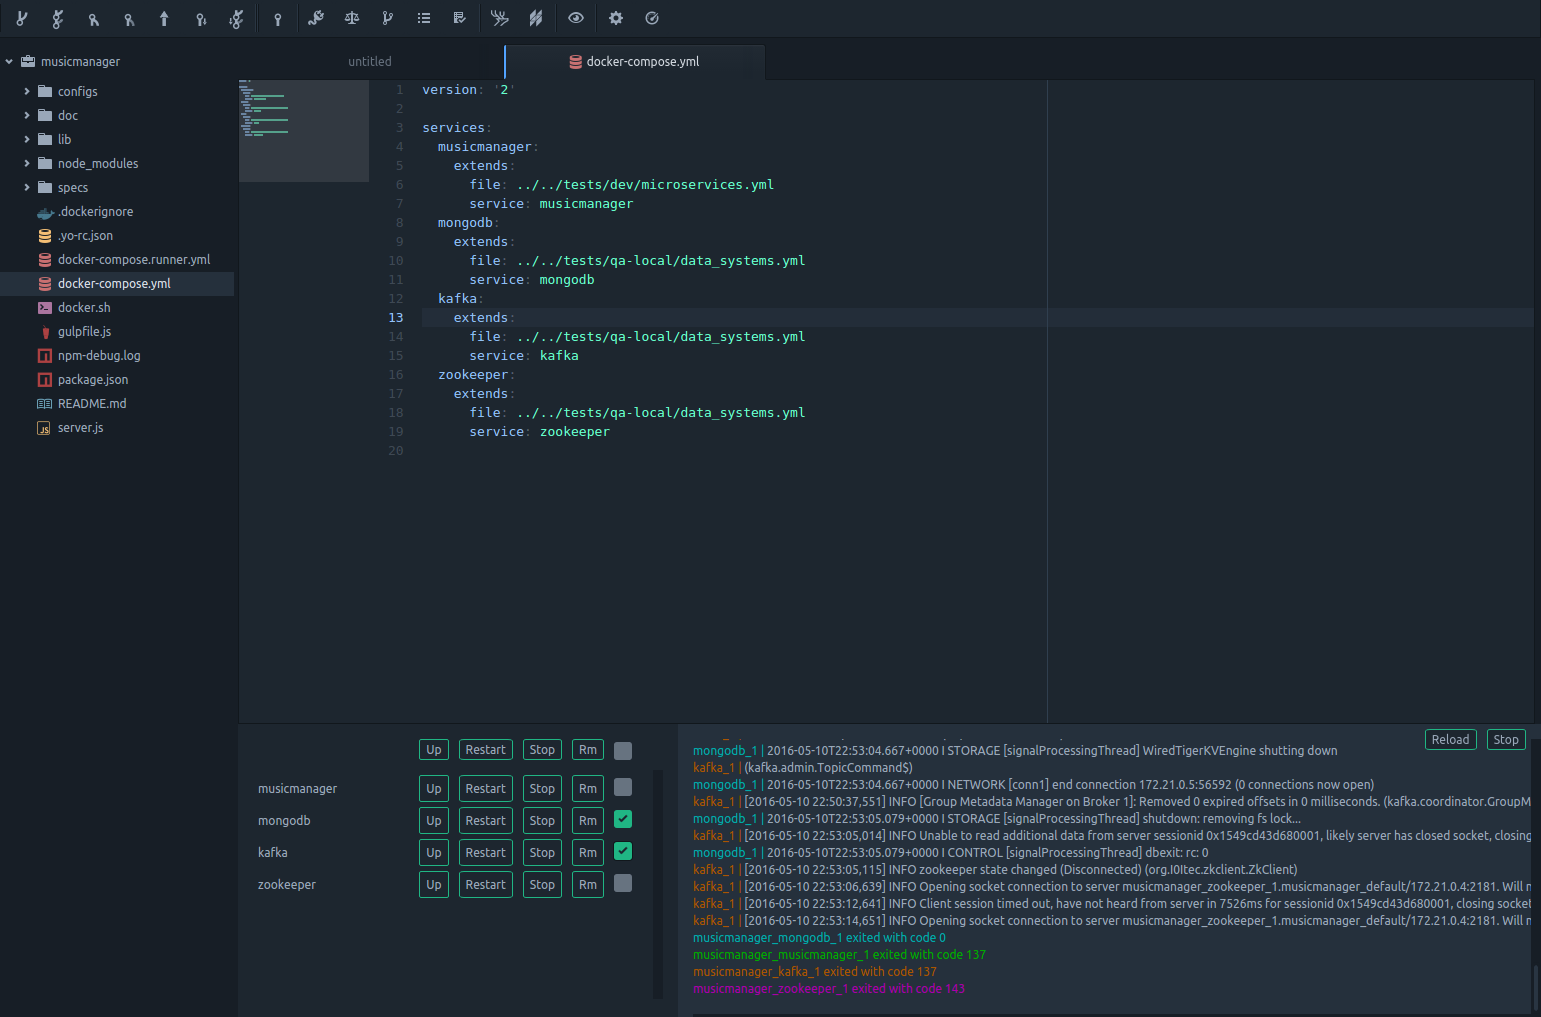
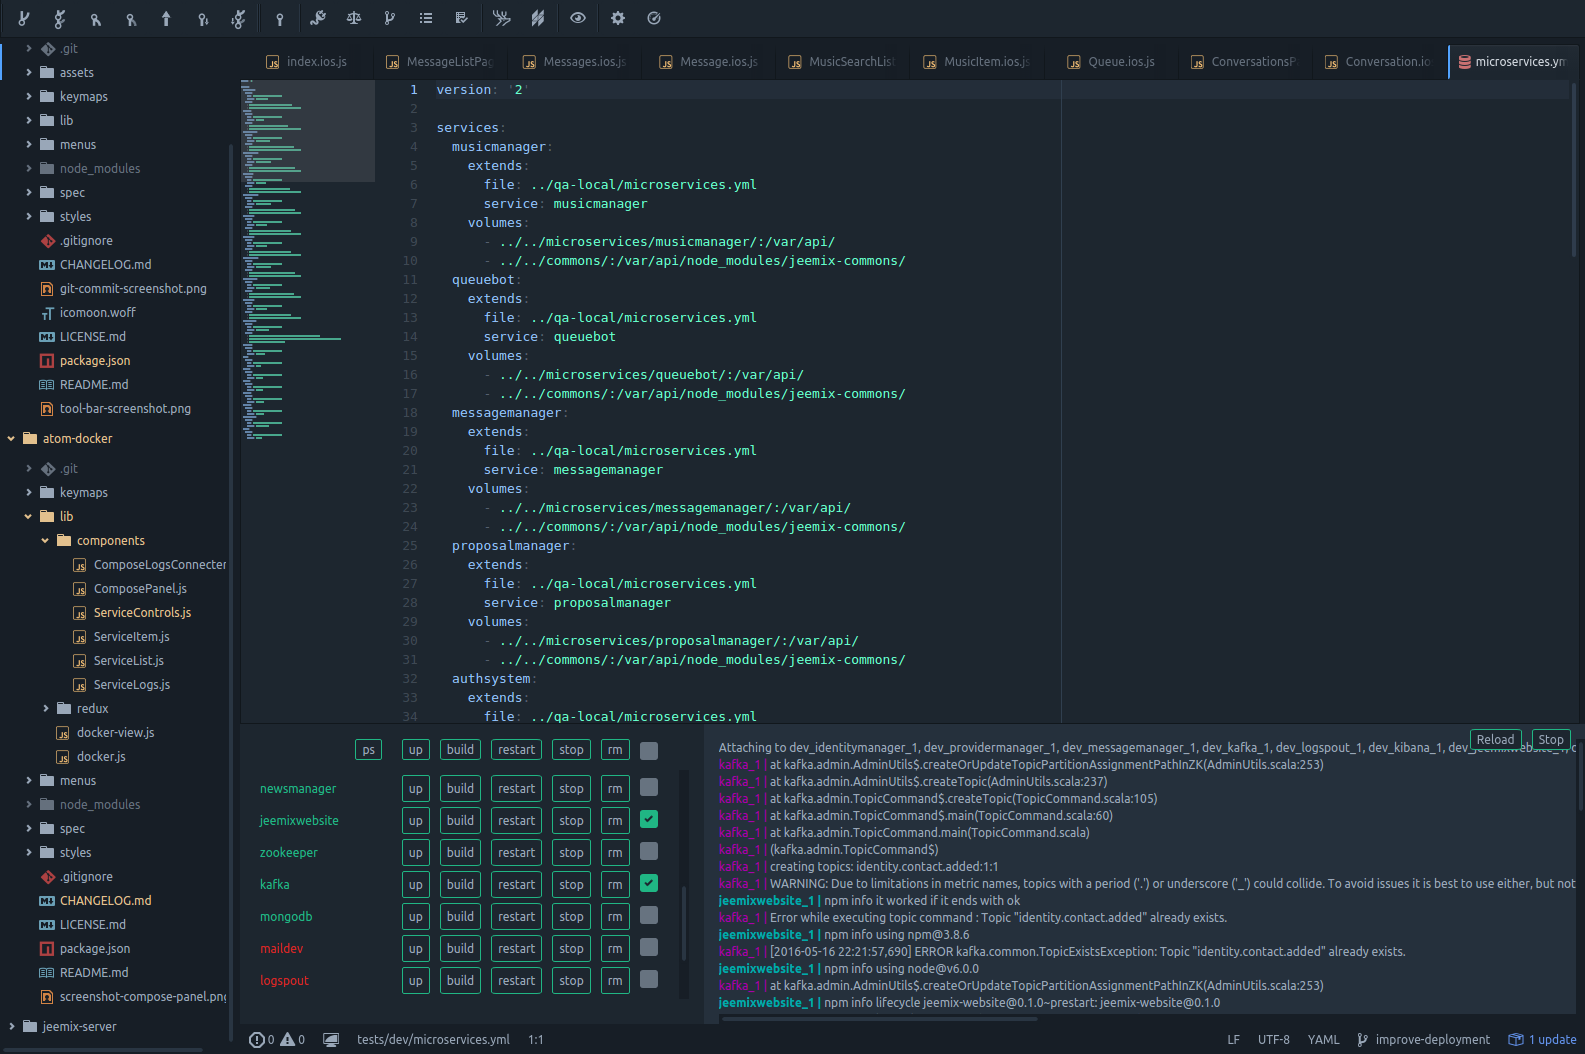
Updates screenshot and changelog, lowercases command names

diff --git a/lib/components/ServiceControls.js b/lib/components/ServiceControls.js
@@ -28,11 +28,11 @@ export default React.createClass({
   render: function() {
     return (
       <div style={{display: "flex", flexDirection: "row", marginLeft: "10px", marginRight: "15px"}}>
-        <button className="compose-control" type="button" onClick={this.props.onUpClick}>Up</button>
-        <button className="compose-control" type="button" onClick={this.props.onBuildClick}>Build</button>
-        <button className="compose-control" type="button" onClick={this.props.onRestartClick}>Restart</button>
-        <button className="compose-control" type="button" onClick={this.props.onStopClick}>Stop</button>
-        <button className="compose-control" type="button" onClick={this.props.onRmClick}>Rm</button>
+        <button className="compose-control" type="button" onClick={this.props.onUpClick}>up</button>
+        <button className="compose-control" type="button" onClick={this.props.onBuildClick}>build</button>
+        <button className="compose-control" type="button" onClick={this.props.onRestartClick}>restart</button>
+        <button className="compose-control" type="button" onClick={this.props.onStopClick}>stop</button>
+        <button className="compose-control" type="button" onClick={this.props.onRmClick}>rm</button>
         <input type="checkbox" className="compose-control" checked={this.props.selected} onChange={(event) => {this.props.onFilterChange(event.target.checked)}}/>
       </div>
     );

diff --git a/CHANGELOG.md b/CHANGELOG.md
@@ -1,3 +1,4 @@
+## 0.4.0 - Adds PS Button and Service State Colors
 ## 0.3.0 - Adds Build Button and handles output of every commands
 ## 0.2.0 - Compose File Version 1 Support
 ## 0.1.0 - First Release
